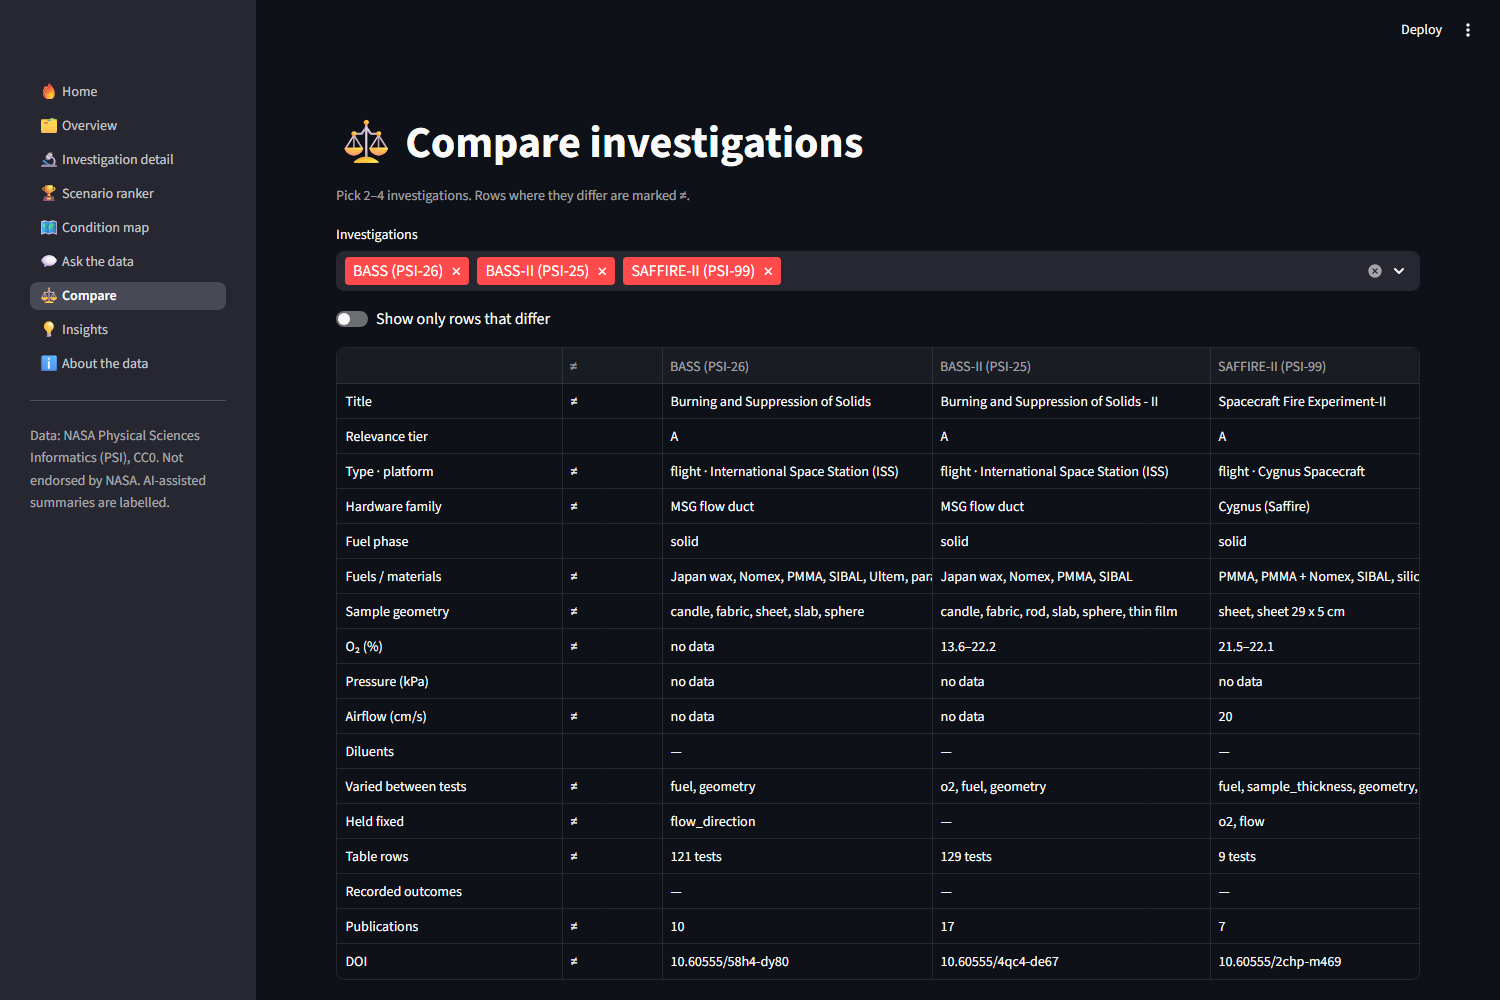
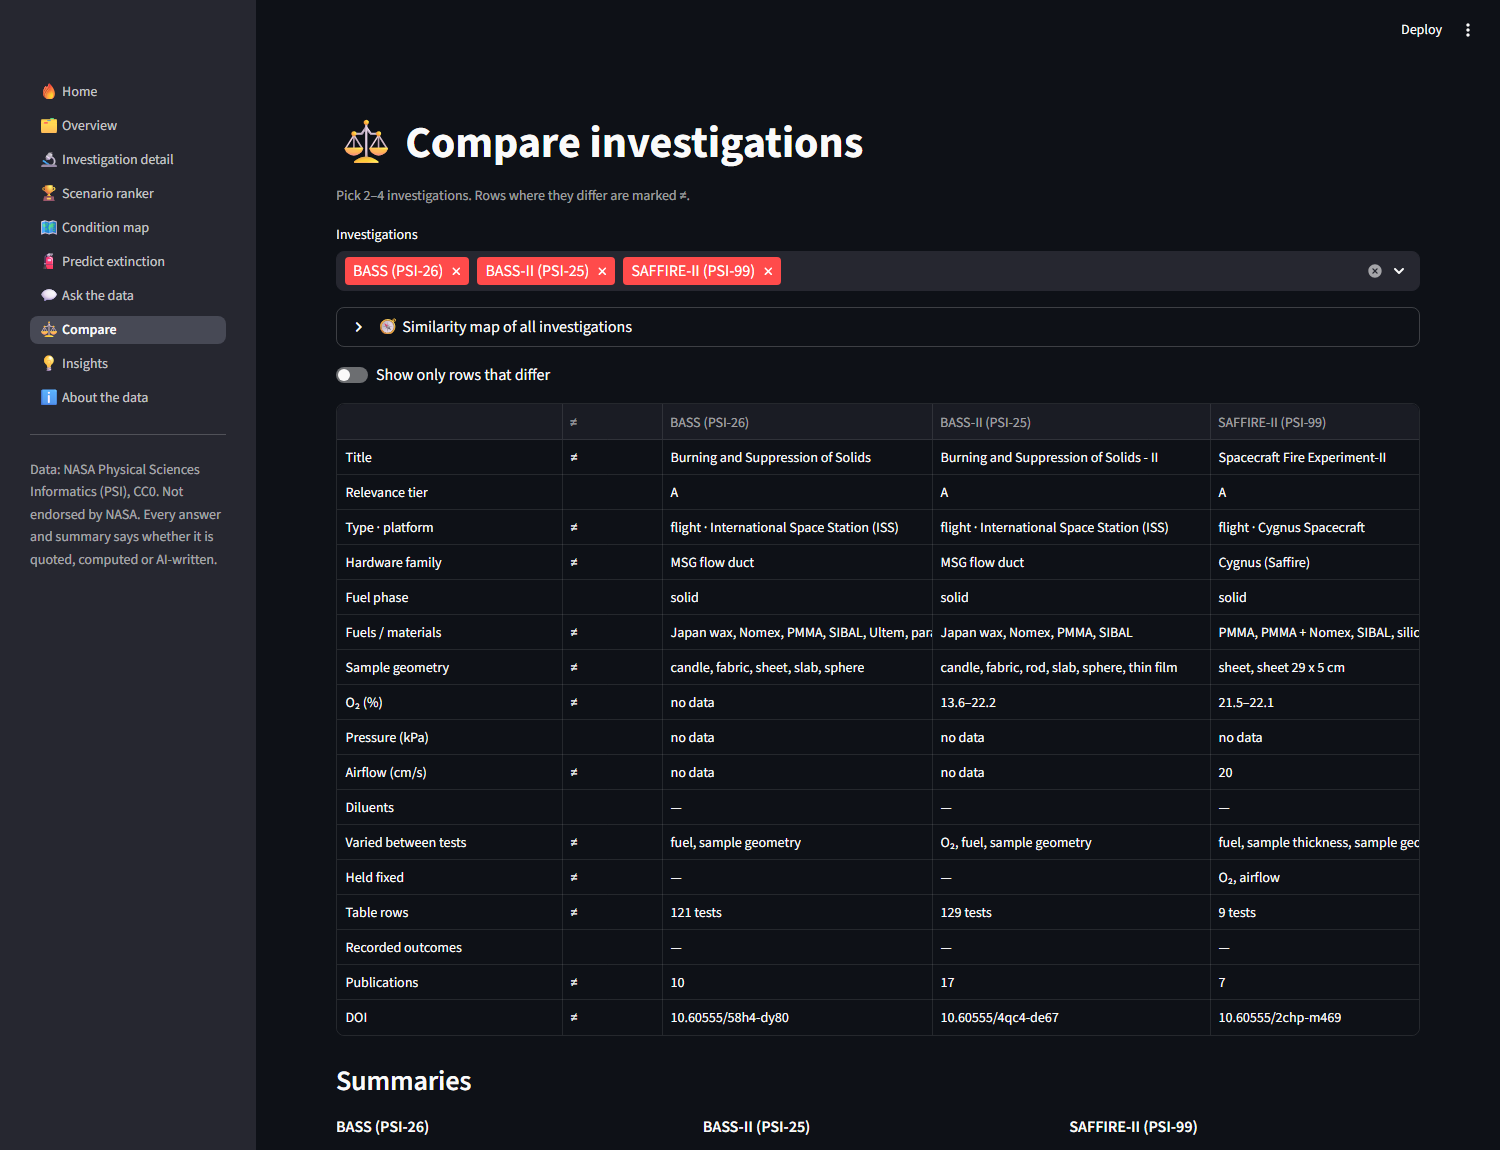
pc3: UI polish before the demo
- ranker: 'Relevance tier' violet and 'Data richness' red instead of green next to aqua
  'Airflow overlap'; worst adjacent pair OKLab dE x100: 19.6 normal / 9.1 protan / 9.2 deutan
- About: raw-data size computed from investigations.json total_size_gb (~13.5 TB), not the
  brief's 12.5 TB
- readable variable names (data.pretty_vars): 'sample thickness', 'flow direction', 'O2'...
  on Detail and Compare
- Overview / About: fixed widths for Investigation and Title so ground-study names fit
- re-checked Compare/Detail after main's 'held fixed' data fix (BASS: nothing held fixed)
- project name in one constant (app/nav.py APP_NAME); renaming tracked in #27

Closes #18

diff --git a/app/views/about.py b/app/views/about.py
@@ -11,13 +11,14 @@ invs = data.investigations()
 tests = data.tests()
 cov = data.coverage() or {}
 docs = data.doc_stats()
+_raw_tb = sum(i.get("total_size_gb") or 0 for i in invs) / 1000   # PSI file sizes, all 24 investigations
 
 st.markdown(
     "All data comes from the **NASA Physical Sciences Informatics (PSI)** repository "
     "([psi.nasa.gov](https://psi.nasa.gov)), *Combustion Science* research area: "
     f"{len(invs)} investigations, their metadata, experimental tables and science documents. "
     "PSI datasets are released under **Creative Commons Zero v1.0 (CC0)**; PSI asks that each dataset be "
-    "cited by its DOI, listed below. Raw data (videos, images, sensor files, ~12.5 TB) stays on PSI; "
+    f"cited by its DOI, listed below. Raw data (videos, images, sensor files, ~{_raw_tb:.1f} TB) stays on PSI; "
     "every investigation links to it."
 )
 st.warning("This is an independent hackathon project for the NASA Space Apps Challenge 2026. "
@@ -42,7 +43,8 @@ st.dataframe(pd.DataFrame([{
 } for i in invs]), hide_index=True, column_config={
     "DOI": st.column_config.LinkColumn(display_text=r"https://doi\.org/(.*)"),
     "PSI page": st.column_config.LinkColumn(display_text="open"),
-    "Title": st.column_config.TextColumn(width="large"),
+    "Investigation": st.column_config.TextColumn(width=230),
+    "Title": st.column_config.TextColumn(width=520),
 })
 
 # ---------------------------------------------------------------- data quality

diff --git a/app/views/ranker.py b/app/views/ranker.py
@@ -5,15 +5,17 @@ from ai.habitats import HABITATS
 from ai.ranking import DEFAULT_WEIGHTS, PILLAR_FOCUS_WEIGHT, rank
 from app import data
 
-# Fixed component order + colours (validated categorical palette, slots 1-7; never re-cycled).
+# Fixed component order + colours from the validated categorical palette (never re-cycled). Green
+# (slot 6) is left out: next to aqua ("Airflow overlap") it read as the same colour (#18). Checked:
+# worst adjacent OKLab dE x100 = 19.6 normal, 9.1 protan, 9.2 deutan (>= 15 / 8).
 COMPONENTS = [
     ("o2", "O₂ overlap", "#2a78d6"),
     ("pressure", "Pressure overlap", "#eb6834"),
     ("flow", "Airflow overlap", "#1baf7a"),
     ("material", "Material match", "#eda100"),
     ("pillar", "Fire-safety pillar", "#e87ba4"),
-    ("tier", "Relevance tier", "#008300"),
-    ("richness", "Data richness", "#6250d6"),
+    ("tier", "Relevance tier", "#6250d6"),
+    ("richness", "Data richness", "#e34948"),
 ]
 NAMES = {k: n for k, n, _ in COMPONENTS}
 FIELD_LABEL = {"o2_frac": "O₂", "pressure_kPa": "pressure", "flow_cm_s": "airflow",

diff --git a/app/tests/test_app_pages.py b/app/tests/test_app_pages.py
@@ -269,3 +269,15 @@ def test_ask_shows_answer_span(monkeypatch):
     assert not at.exception, at.exception
     md = " ".join(m.value for m in at.markdown)
     assert "<mark>SIBAL cotton-fiberglass fabric</mark>" in md
+
+
+def test_polish_labels_and_size():
+    """#18: readable variable names; raw-data size computed from investigations.json."""
+    from app import data as app_data
+    assert app_data.pretty_vars(["o2", "sample_thickness", "flow_direction"]) == "O₂, sample thickness, flow direction"
+    assert app_data.pretty_vars(None) == "—"
+    at = AppTest.from_file(str(APP_DIR / "views/about.py"), default_timeout=TIMEOUT).run()
+    assert not at.exception, at.exception
+    assert "~13.5 TB" in at.markdown[0].value
+    at = AppTest.from_file(str(APP_DIR / "views/compare.py"), default_timeout=TIMEOUT).run()
+    assert "sample_thickness" not in at.dataframe[0].value.to_string()

diff --git a/app/views/compare.py b/app/views/compare.py
@@ -80,8 +80,8 @@ ROWS = [
     ("Pressure (kPa)", lambda i: data.fmt_range(i.get("pressure_range_kPa"), digits=1)),
     ("Airflow (cm/s)", lambda i: data.fmt_range(i.get("flow_range_cm_s"), digits=1)),
     ("Diluents", lambda i: join(i.get("diluents"))),
-    ("Varied between tests", lambda i: join(i.get("varied_variables"))),
-    ("Held fixed", lambda i: join(i.get("fixed_variables"))),
+    ("Varied between tests", lambda i: data.pretty_vars(i.get("varied_variables"))),
+    ("Held fixed", lambda i: data.pretty_vars(i.get("fixed_variables"))),
     ("Table rows", lambda i: "{} {}".format(*data.table_rows(i["id"]))),
     ("Recorded outcomes", lambda i: outcomes(i["id"])),
     ("Publications", lambda i: str(len(i.get("publications") or []))),

diff --git a/app/views/overview.py b/app/views/overview.py
@@ -78,7 +78,8 @@ event = st.dataframe(
     df, hide_index=True, on_select="rerun", selection_mode="single-row", key="overview_table",
     column_config={
         "id": st.column_config.TextColumn("PSI ID", width="small"),
-        "Title": st.column_config.TextColumn(width="large"),
+        "Investigation": st.column_config.TextColumn(width=230),
+        "Title": st.column_config.TextColumn(width=520, help="Full title also on the detail page"),
         "Tier": st.column_config.TextColumn(width="small"),
         "Table rows": st.column_config.NumberColumn(help="Rows parsed from the PSI experimental table "
                                                     "(tests, or test days for ACME/SLICE logs)"),

diff --git a/app/data.py b/app/data.py
@@ -220,6 +220,16 @@ def warmup() -> bool:
         return False
 
 
+VAR_LABELS = {"o2": "O₂", "pressure": "pressure", "flow": "airflow", "fuel": "fuel", "diluent": "diluent",
+              "geometry": "sample geometry", "sample_thickness": "sample thickness",
+              "flow_direction": "flow direction", "droplet_diameter": "droplet diameter"}
+
+
+def pretty_vars(keys) -> str:
+    """['o2', 'sample_thickness'] -> 'O₂, sample thickness'; empty -> '—'."""
+    return ", ".join(VAR_LABELS.get(k, str(k).replace("_", " ")) for k in keys or []) or "—"
+
+
 def doi_url(doi: str | None) -> str | None:
     return f"https://doi.org/{doi}" if doi else None
 

diff --git a/app/main.py b/app/main.py
@@ -13,9 +13,9 @@ if str(ROOT) not in sys.path:
 import streamlit as st  # noqa: E402
 
 from app.data import warmup  # noqa: E402
-from app.nav import available  # noqa: E402
+from app.nav import APP_NAME, available  # noqa: E402
 
-st.set_page_config(page_title="Flame in Freefall", page_icon="🔥", layout="wide")
+st.set_page_config(page_title=APP_NAME, page_icon="🔥", layout="wide")
 
 # Streamlit Community Cloud: the API key is a Streamlit secret, not a .env file. Copy it into the
 # environment, where ai/ looks for it. Locally there is usually no secrets.toml, which is fine.

diff --git a/app/views/detail.py b/app/views/detail.py
@@ -77,9 +77,9 @@ c3.metric("Airflow (cm/s)", data.fmt_range(inv.get("flow_range_cm_s"), digits=1)
 c1, c2 = st.columns(2)
 with c1:
     st.markdown("**Varied between tests**")
-    st.write(", ".join(inv.get("varied_variables") or []) or "—")
+    st.write(data.pretty_vars(inv.get("varied_variables")))
     st.markdown("**Held fixed**")
-    st.write(", ".join(inv.get("fixed_variables") or []) or "—")
+    st.write(data.pretty_vars(inv.get("fixed_variables")))
 with c2:
     st.markdown("**Fuels / materials**")
     st.write(", ".join(inv.get("fuels") or []) or "—")

diff --git a/app/views/home.py b/app/views/home.py
@@ -1,14 +1,14 @@
 import streamlit as st
 
 from app import data
-from app.nav import available
+from app.nav import APP_NAME, available
 
 invs = data.investigations()
 tests = data.tests()
 docs = data.doc_stats()
 cov = data.coverage()
 
-st.title("🔥 Flame in Freefall")
+st.title(f"🔥 {APP_NAME}")
 st.markdown(
     "**Fire behaves differently in space.** Without gravity there is no buoyancy: hot gas does "
     "not rise, flames turn spherical and live on airflow from fans. NASA has flown dozens of "

diff --git a/app/nav.py b/app/nav.py
@@ -4,6 +4,10 @@ from pathlib import Path
 
 APP_DIR = Path(__file__).resolve().parent
 
+# Project name shown in the browser tab and on the home page. "Flame in Freefall" is the challenge's
+# name; change this one line when the team picks the project name (see the submission summary).
+APP_NAME = "Flame in Freefall"
+
 # (path relative to app/, title, icon, one-line description)
 PAGE_SPECS = [
     ("views/home.py", "Home", "🔥", ""),
